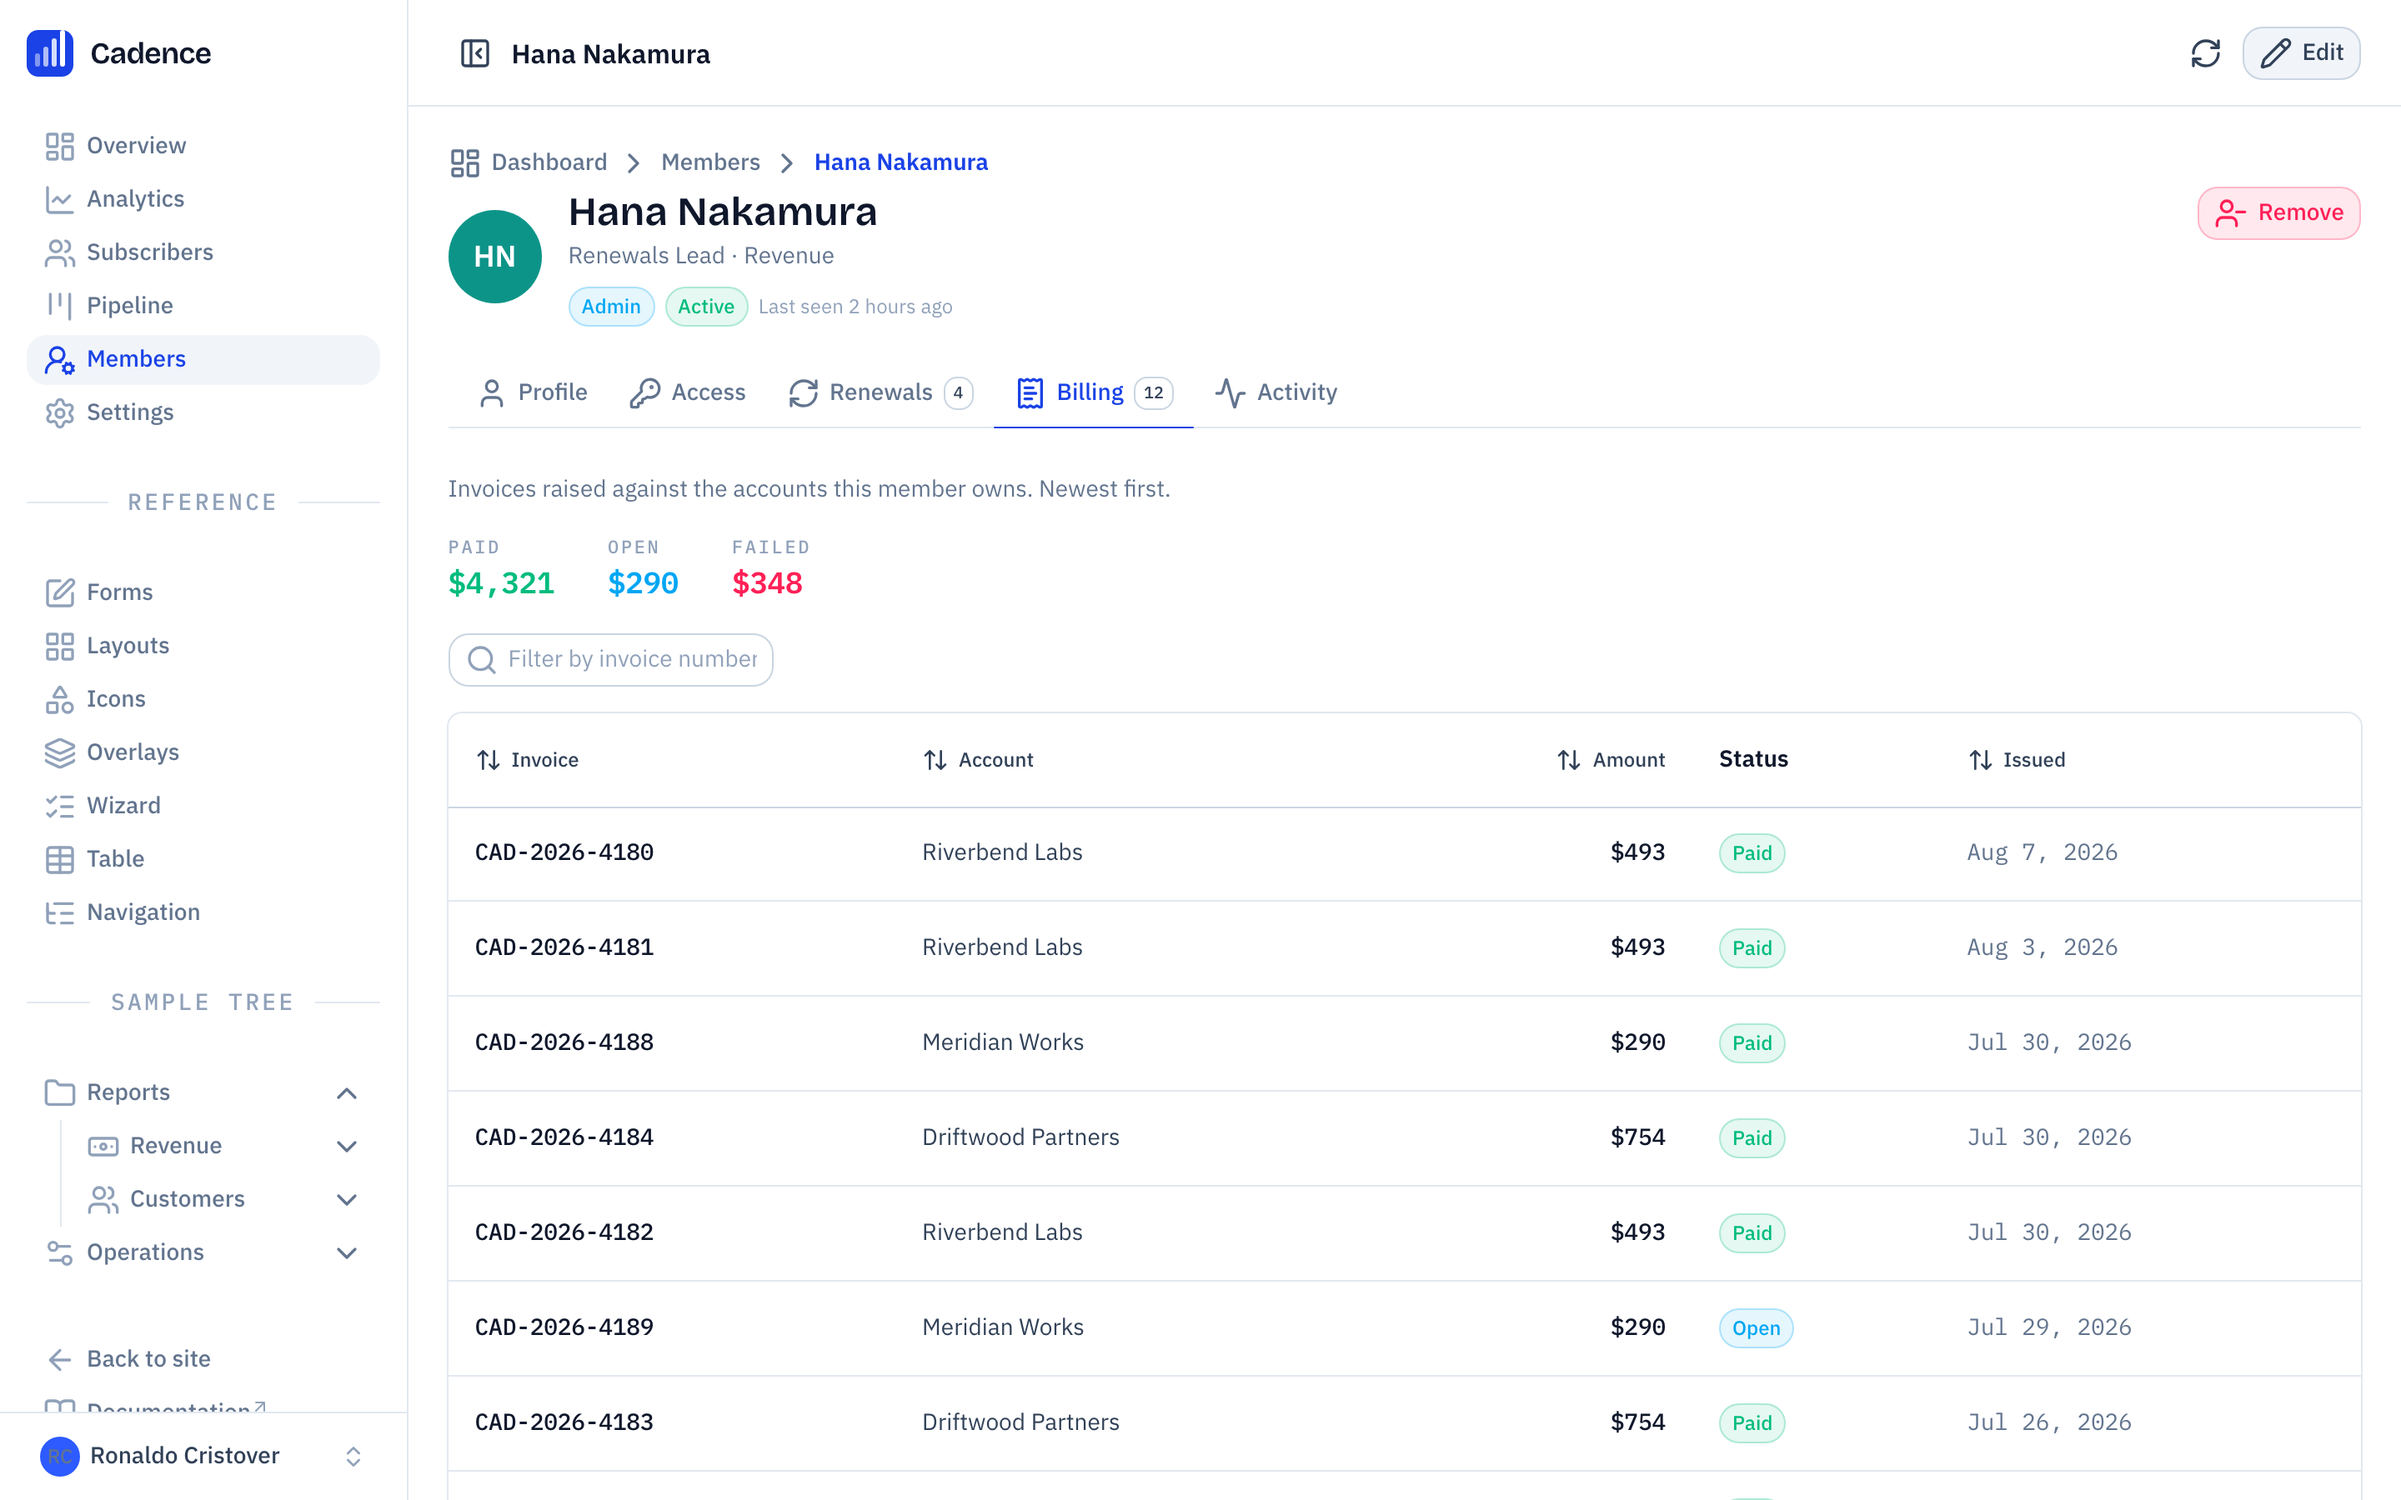
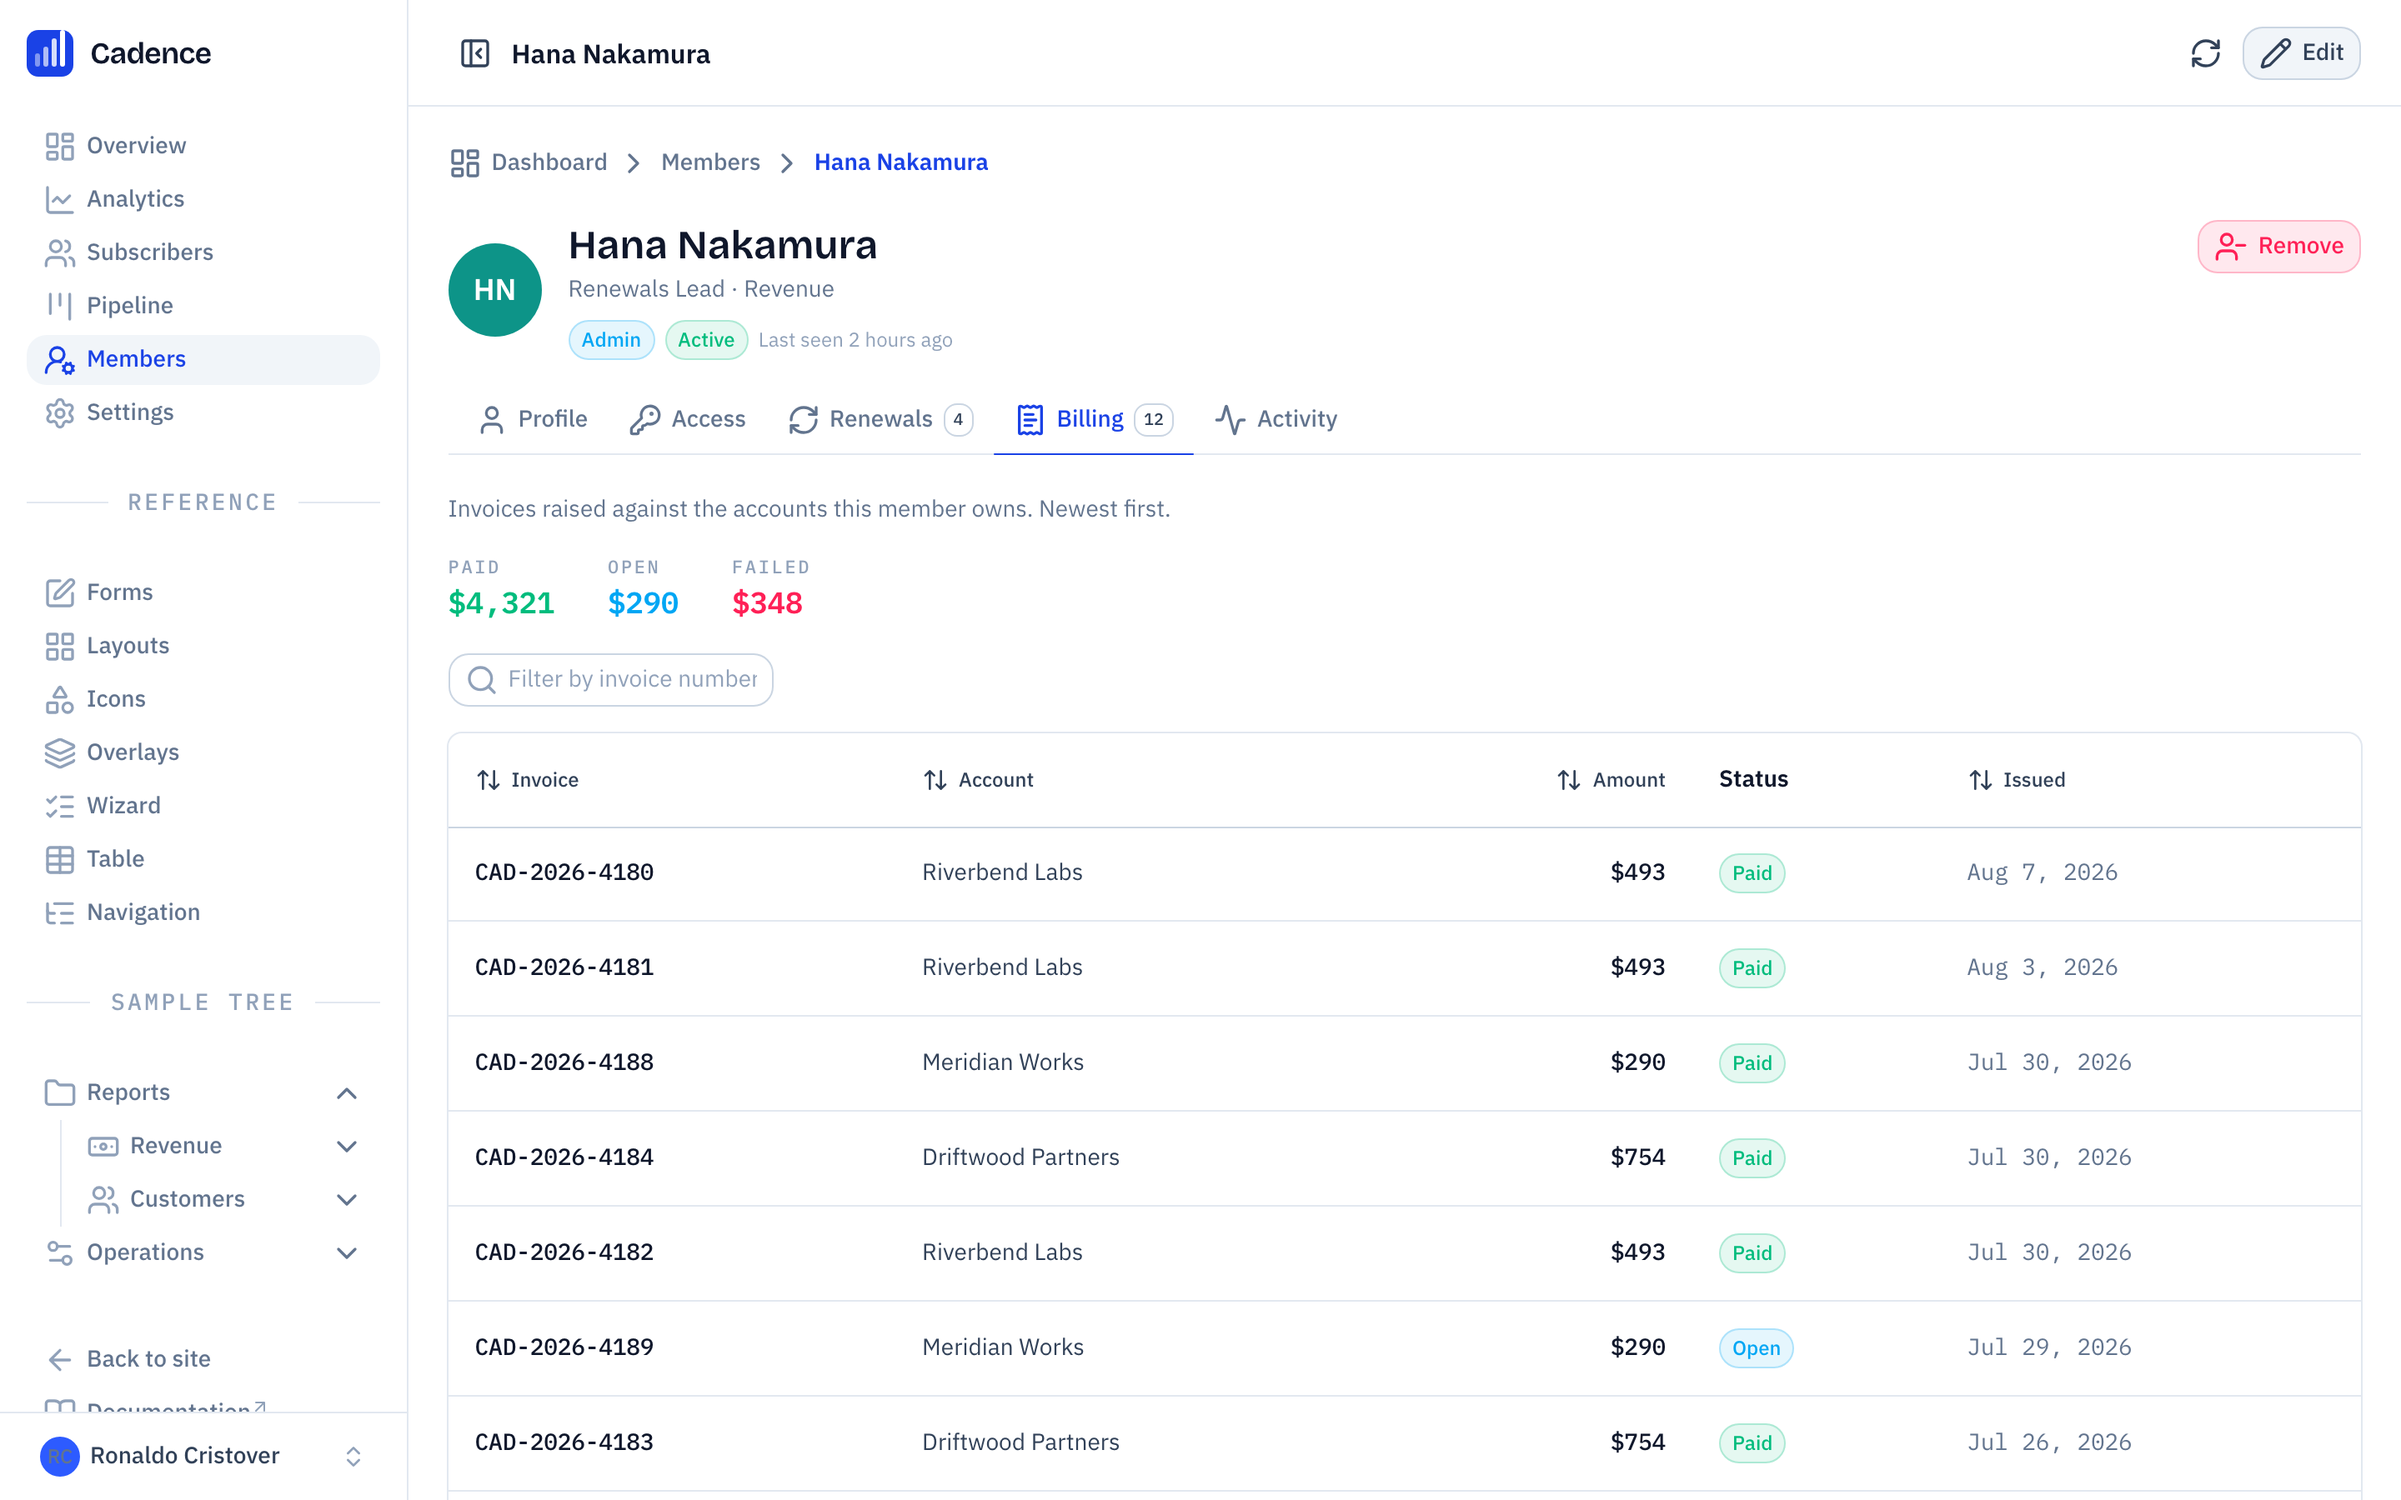
Fix breadcrumb spacing, and move Add member into the filter row
**Spacing.** The breadcrumb was carrying its own `mb-1` while sitting in four
different layouts, which produced four different gaps. Worst case: nested as the
*first* child of a `space-y-*` stack, where `space-y` contributes nothing to the
first child — so it had a 4px gap under it against 24px everywhere else. That is
the "too tight" you could see.

The panel body is `flex flex-col gap-4 sm:gap-6`, so a direct child is already
spaced by the layout. The component now carries no margin at all and is placed
directly in `#body` on every page. `ReferenceShell` is the one place that
cannot — the crumb has to sit inside the max-width wrapper to line up with the
content — so it states a matching `mb-6`.

Measured after: 24px under the breadcrumb on all ten pages that have one, at
1440px. It was 4px, 20px, 24px and 28px depending on the page.

Also normalises the member detail page from `space-y-5` to the `space-y-4` every
other page uses.

**Add member** moves from the navbar into the filter row, on the trailing edge.
`ms-auto` rather than `ml-auto`, so it stays on the correct side if the
interface is read right-to-left — which the template already supports via
`dir`. On a phone the row stacks and the button stretches to the full width
alongside the search field, which is what the single action on the page should
do.

diff --git a/app/pages/dashboard/members/index.vue b/app/pages/dashboard/members/index.vue
@@ -116,19 +116,14 @@ function lastSeen(value: string | null): string {
             :aria-label="$t('members.refresh')"
             @click="refresh()"
           />
-          <UButton
-            icon="i-lucide-user-plus"
-            :label="$t('members.add')"
-            to="/dashboard/members/new"
-          />
         </template>
       </UDashboardNavbar>
     </template>
 
     <template #body>
-      <div class="space-y-4">
-        <AppBreadcrumb />
+      <AppBreadcrumb />
 
+      <div class="space-y-4">
         <div>
           <h2 class="font-display text-xl font-semibold text-highlighted">
             {{ $t('members.title') }}
@@ -180,6 +175,19 @@ function lastSeen(value: string | null): string {
             <USelect v-model="status" :items="statusItems" value-key="value" class="min-w-36" />
             <USelect v-model="department" :items="departmentItems" value-key="value" class="min-w-40" />
           </div>
+
+          <!--
+            `ms-auto`, not `ml-auto`, so it stays on the trailing edge if the
+            interface is ever read right-to-left. On a phone the row stacks and
+            the button stretches, which is what you want from the one action on
+            the page.
+          -->
+          <UButton
+            icon="i-lucide-user-plus"
+            :label="$t('members.add')"
+            class="justify-center lg:ms-auto"
+            to="/dashboard/members/new"
+          />
         </div>
 
         <!-- Empty state is an invitation to act, not a shrug. -->

diff --git a/app/components/AppBreadcrumb.vue b/app/components/AppBreadcrumb.vue
@@ -52,9 +52,21 @@ const items = computed<BreadcrumbItem[]>(() => {
 </script>
 
 <template>
+  <!--
+    No margin of its own, deliberately.
+
+    The dashboard panel body is `flex flex-col gap-4 sm:gap-6`, so a direct child
+    is already spaced by the layout. Carrying its own `mb-*` on top of that gave
+    four different gaps across the app — and where the crumb was nested as the
+    *first* child of a `space-y-*` stack it got nothing from the stack at all,
+    leaving a 4px gap against a 24px one everywhere else.
+
+    So: put it directly in `#body` and let the panel space it. The one place that
+    cannot (`ReferenceShell`, where it sits inside the max-width wrapper) passes
+    a matching class.
+  -->
   <UBreadcrumb
     v-if="items.length"
     :items="items"
-    class="mb-1"
   />
 </template>

diff --git a/app/pages/dashboard/members/new.vue b/app/pages/dashboard/members/new.vue
@@ -39,11 +39,11 @@ async function submit() {
     </template>
 
     <template #body>
-      <div class="space-y-4">
-        <!-- The breadcrumb is the way back up, so the separate back button that
-             sat here would have been a second control doing the same job. -->
-        <AppBreadcrumb :trail="[{ label: $t('breadcrumb.new') }]" />
+      <!-- The breadcrumb is the way back up, so the separate back button that
+           sat here would have been a second control doing the same job. -->
+      <AppBreadcrumb :trail="[{ label: $t('breadcrumb.new') }]" />
 
+      <div class="space-y-4">
         <div>
           <h2 class="font-display text-xl font-semibold text-highlighted">
             {{ $t('members.form.newTitle') }}

diff --git a/app/pages/dashboard/members/[id]/edit.vue b/app/pages/dashboard/members/[id]/edit.vue
@@ -57,14 +57,14 @@ async function submit() {
     </template>
 
     <template #body>
-      <div class="space-y-4">
-        <AppBreadcrumb
-          :trail="[
-            { label: member.name, to: `/dashboard/members/${id}` },
-            { label: $t('breadcrumb.edit') }
-          ]"
-        />
+      <AppBreadcrumb
+        :trail="[
+          { label: member.name, to: `/dashboard/members/${id}` },
+          { label: $t('breadcrumb.edit') }
+        ]"
+      />
 
+      <div class="space-y-4">
         <div>
           <h2 class="font-display text-xl font-semibold text-highlighted">
             {{ $t('members.form.editTitle', { name: member.name }) }}

diff --git a/app/pages/dashboard/members/[id]/index.vue b/app/pages/dashboard/members/[id]/index.vue
@@ -140,9 +140,9 @@ async function remove() {
     </template>
 
     <template #body>
-      <div class="space-y-5">
-        <AppBreadcrumb :trail="[{ label: member.name }]" />
+      <AppBreadcrumb :trail="[{ label: member.name }]" />
 
+      <div class="space-y-4">
         <!-- Identity header -->
         <div class="flex flex-col gap-4 sm:flex-row sm:items-start sm:justify-between">
           <div class="flex items-center gap-4">

diff --git a/app/components/ReferenceShell.vue b/app/components/ReferenceShell.vue
@@ -39,7 +39,7 @@ defineProps<{
     <template #body>
       <div class="mx-auto w-full" :class="width === 'wide' ? 'max-w-7xl' : 'max-w-5xl'">
         <!-- One place, so all seven reference pages get the trail. -->
-        <AppBreadcrumb class="mb-4" />
+        <AppBreadcrumb class="mb-6" />
 
         <div class="mb-5">
           <h2 class="font-display text-xl font-semibold tracking-tight text-highlighted sm:text-2xl">
